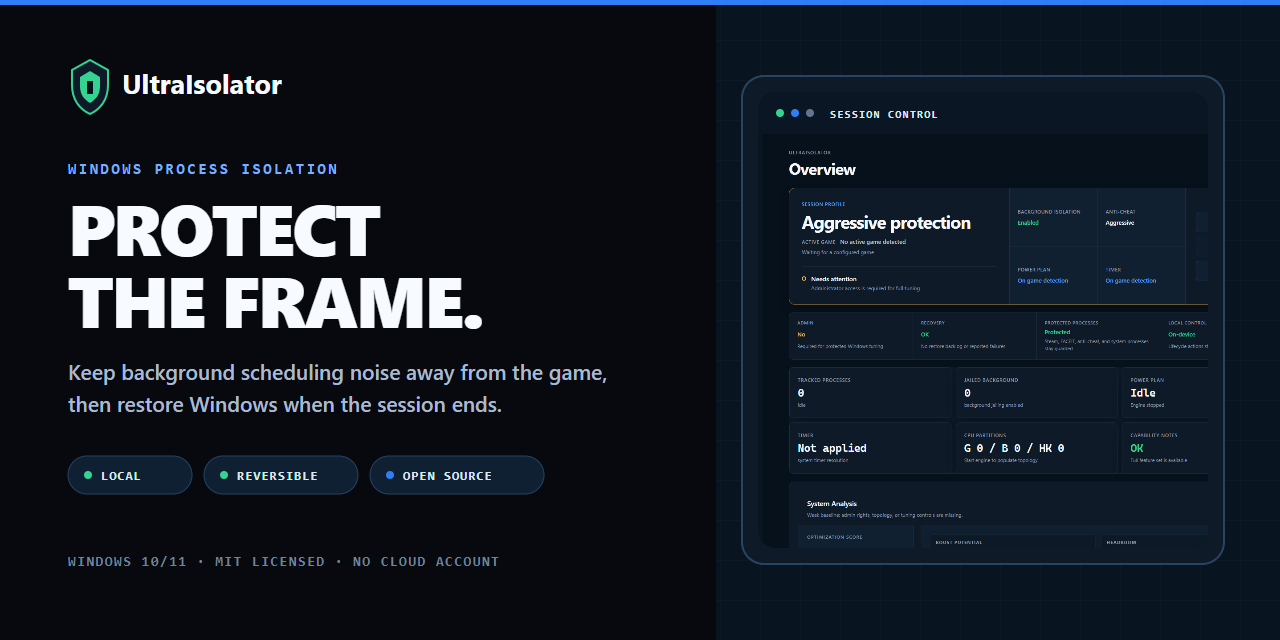
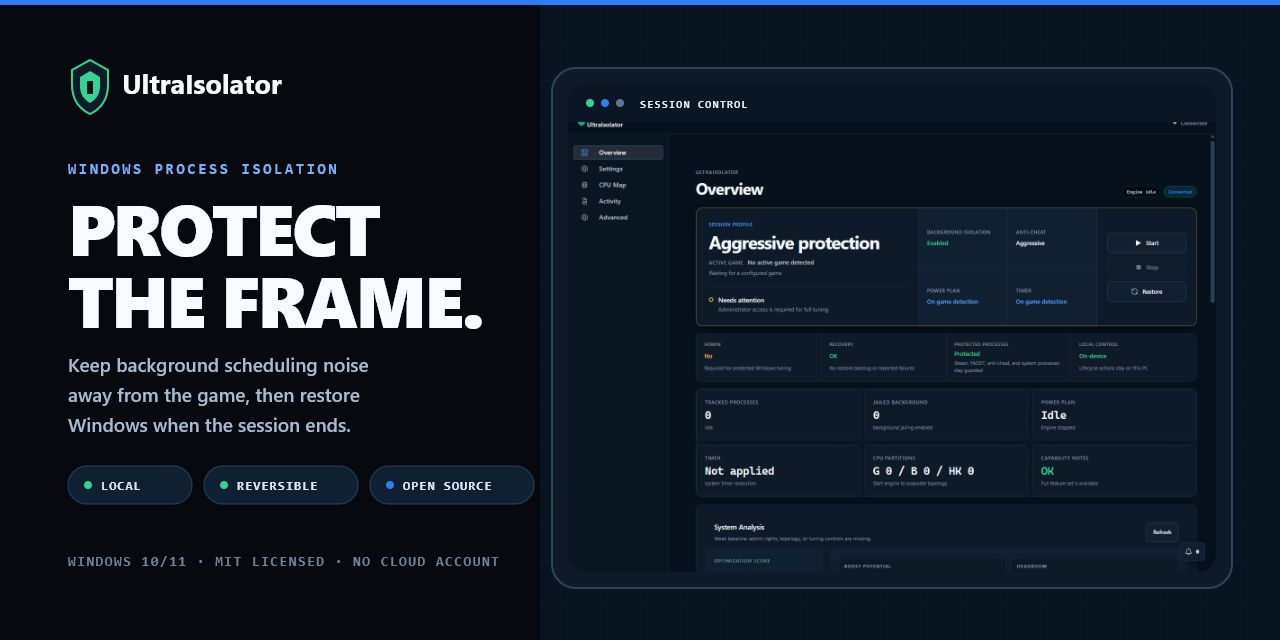
Polish GitHub presentation and clean workspace artifacts

diff --git a/docs/index.html b/docs/index.html
@@ -263,7 +263,7 @@
             </p>
             <a
               class="text-link"
-              href="https://github.com/chezzof/ultraisolator/blob/main/benchmark-results-hud.html"
+              href="https://github.com/chezzof/ultraisolator/blob/main/docs/benchmarks/cs2-vprof-report.html"
             >
               Read the benchmark report
             </a>

diff --git a/README.md b/README.md
@@ -1,5 +1,5 @@
 <p align="center">
-  <a href="#install-on-windows">
+  <a href="https://github.com/chezzof/ultraisolator/releases/latest">
     <img src="docs/social-preview.png" alt="UltraIsolator — protect the frame with local, reversible Windows process isolation" width="100%">
   </a>
 </p>
@@ -7,8 +7,8 @@
 <h1 align="center">UltraIsolator</h1>
 
 <p align="center">
-  <strong>Protect the frame.</strong><br>
-  A local, reversible Windows process tuner that keeps background scheduling noise away from the game, then returns Windows to its previous state when the session ends.
+  <strong>Local Windows process isolation for smoother competitive-game sessions.</strong><br>
+  Detect the game, protect critical processes, reduce eligible background interference, and restore Windows when the session ends.
 </p>
 
 <p align="center">
@@ -19,58 +19,62 @@
 </p>
 
 <p align="center">
-  <a href="#install-on-windows"><strong>Install on Windows</strong></a>
+  <a href="https://github.com/chezzof/ultraisolator/releases/latest"><strong>Download for Windows</strong></a>
   &nbsp;&nbsp;·&nbsp;&nbsp;
   <a href="#how-it-works">How it works</a>
   &nbsp;&nbsp;·&nbsp;&nbsp;
   <a href="#measured-on-cs2">Measured results</a>
   &nbsp;&nbsp;·&nbsp;&nbsp;
-  <a href="#safety-first">Safety</a>
+  <a href="#safety-by-design">Safety</a>
 </p>
 
-UltraIsolator watches for configured games, prepares a clean CPU layout, and applies only the tuning selected for the current session. Game detection is independent from process-tuning success, so anti-cheat access restrictions do not make an active game disappear from the interface.
+<p align="center"><sub>Windows 10/11 · Administrator access required · Local by design · MIT licensed</sub></p>
 
-Windows 10/11 · Administrator access required · Local by design · MIT licensed
+## How it works
 
-## How It Works
-
-| 01 — Detect | 02 — Review |
+| 01 — Detect | 02 — Prepare |
 |---|---|
-| Watches configured games and scans Steam and Epic libraries. | Checks administrator access, CPU topology, configured games, and safe-restore readiness. |
+| Watches configured game processes and scans Steam and Epic libraries. | Checks administrator access, CPU topology, configured games, and restore readiness. |
 
-| 03 — Isolate | 04 — Restore |
+| 03 — Protect | 04 — Restore |
 |---|---|
-| Applies the selected CPU, process, timer, and power tuning for the active session. | Returns tracked Windows state when the game closes or you restore manually. |
+| Applies the selected CPU, priority, timer, and power tuning for the active session. | Returns tracked Windows state when the game closes or you restore manually. |
 
-Monitoring starts automatically whenever the desktop app launches. A manual pause lasts only for that app session; the next launch resumes monitoring.
+Game detection is independent from process-tuning success. A game remains visible when anti-cheat or Windows access rules block direct tuning.
 
 ## Why UltraIsolator
 
-- **Game-aware:** detection follows the game process before tuning, including access-denied and conservative anti-cheat paths.
-- **Local:** the desktop UI talks only to an authenticated loopback API. No cloud account is required.
-- **Protected:** Windows, Steam, FACEIT, anti-cheat, terminals, and configured protected processes stay outside background isolation.
-- **Reversible:** process state, timer resolution, IFEO hints, and the original power plan are restored after the session.
+- **Game-aware.** Detection follows the active game before tuning, including access-denied and conservative anti-cheat paths.
+- **Protected by default.** Windows, Steam, FACEIT, anti-cheat, terminals, and configured protected processes stay outside background isolation.
+- **Local.** The desktop UI communicates only with an authenticated loopback API. No cloud account is required.
+- **Reversible.** Process state, timer resolution, IFEO hints, and the original power plan are restored after the session.
 
-Background isolation is optional and defaults to off. When enabled, it is batched to avoid turning maintenance work into a new source of frame-time noise.
+Background isolation is optional and defaults to off. When enabled, it runs in batches so maintenance work does not become a new source of frame-time noise.
 
-## Safety First
+## Real product. Local control.
 
-UltraIsolator changes sensitive Windows scheduling controls. Read these boundaries before installation:
+<p align="center">
+  <img src="docs/screenshots/dashboard.png" alt="UltraIsolator Overview showing session protection, game state, safe restore, and local system readiness" width="100%">
+</p>
 
-- Windows 10/11 only. Mutating desktop, CLI, benchmark, and recovery paths require Administrator elevation and fail closed without it; `--dry-run` remains available to standard users.
-- The production desktop package is NSIS-only and installs per-machine under `Program Files`. The installer currently appears as **Esports Isolator PRO** to preserve the existing Windows package identity.
-- End users do not install Python separately. The package includes a private Python 3.12 runtime and `psutil`.
-- Packaged startup verifies a backend resource integrity manifest stored in the trusted app bundle before launching code from `resources/backend`.
-- Startup fails closed if the Python runtime, backend, or manifest is standard-user writable, missing, or does not match the signed build manifest.
-- Production ignores arbitrary inherited Python paths. `EII_ALLOW_UNTRUSTED_PACKAGED_PYTHON` is restricted to non-production developer diagnostics.
-- Use `anti_cheat_mode: "conservative"` for stricter anti-cheat stacks. UltraIsolator does not inject into game or anti-cheat processes.
-- The application does not download or execute remote code at runtime.
+The Overview keeps the current game, protection state, next required action, and safe-restore status in one place. Settings and CPU Map use the same responsive layout in English and Russian.
 
-Local logs and recovery files can contain process names and local paths. Review them before sharing.
+<details>
+<summary><strong>See Settings and CPU Map</strong></summary>
+
+<br>
+
+<img src="docs/screenshots/settings.png" alt="UltraIsolator Settings with aligned responsive toggles" width="100%">
+
+<br>
+
+<img src="docs/screenshots/topology.png" alt="UltraIsolator CPU Map showing game, background, and housekeeping partitions" width="100%">
+
+</details>
 
 ## Measured on CS2
 
-The repository includes a Counter-Strike 2 VProf comparison of the same workload with and without the isolator. The strongest result was lower high-percentile frame-time spikes, not a promise of universal FPS gain.
+The included Counter-Strike 2 VProf comparison uses the same workload with and without UltraIsolator. The strongest result was lower high-percentile frame-time spikes—not a promise of universal FPS gain.
 
 | VProf metric | Without | With UltraIsolator | Change |
 |---|---:|---:|---:|
@@ -81,56 +85,37 @@ The repository includes a Counter-Strike 2 VProf comparison of the same workload
 
 Results are workload- and hardware-specific. Reproduce the test on the target machine before making tuning decisions.
 
-[Open the benchmark report](benchmark-results-hud.html) · [Inspect the structured summary](docs/benchmarks/cs2-vprof-summary.json)
+[Open the benchmark report](docs/benchmarks/cs2-vprof-report.html) · [Inspect the structured summary](docs/benchmarks/cs2-vprof-summary.json)
 
 ## Install on Windows
 
-1. Open [Releases](https://github.com/chezzof/ultraisolator/releases/latest).
-2. Download the NSIS installer and the matching `SHA256SUMS.txt`.
+1. Open the [latest release](https://github.com/chezzof/ultraisolator/releases/latest).
+2. Download the NSIS installer and matching `SHA256SUMS.txt`.
 3. Verify the checksum, run the installer, and approve the Windows UAC prompt.
-4. Launch UltraIsolator. Monitoring starts automatically and the Overview screen shows the active game when it is detected.
+4. Launch UltraIsolator. Monitoring starts automatically and Overview shows the game when it is detected.
 
-> **Release asset check:** current `main` produces a per-machine NSIS installer with a bundled Python runtime. If the release page still lists a portable build, treat it as a legacy artifact and build current `main` instead.
+> Current `main` produces a per-machine NSIS installer with a private Python runtime. A portable asset on an older release is legacy and should not be used for the current build.
 
 The installer is currently unsigned. Windows may show an unknown-publisher warning; verify the published SHA-256 checksum before continuing.
 
-## Build from Source
+## Safety by design
 
-Requirements: Windows 10/11, Python 3.12+, Node.js, and an Administrator terminal for mutating runs.
+- Mutating desktop, CLI, benchmark, and recovery paths require Administrator elevation and fail closed without it. `--dry-run` remains available to standard users.
+- UltraIsolator does not inject into game or anti-cheat processes.
+- The application does not download or execute remote code at runtime.
+- Packaged startup verifies the bundled backend, private Python runtime, resource permissions, and integrity manifest before launching.
+- Local logs and recovery files can contain process names and local paths. Review them before sharing.
 
-```powershell
-git clone https://github.com/chezzof/ultraisolator.git
-cd ultraisolator
-python -m pip install -r requirements.txt
-copy config.json.example config.json
-python best_isolator.py --dry-run
-python best_isolator.py
-```
+<details>
+<summary><strong>Packaging and anti-cheat details</strong></summary>
 
-The dry run validates configuration without requiring elevation or changing the system.
+- Production is NSIS-only and installs per-machine under `Program Files`. The installer currently appears as **Esports Isolator PRO** to preserve the existing Windows package identity.
+- End users do not install Python separately. The package includes Python 3.12 and `psutil`.
+- Startup fails closed when the runtime, backend, or manifest is missing, modified, or standard-user writable.
+- Production ignores arbitrary inherited Python paths. Developer overrides are restricted to non-production diagnostics.
+- Use `anti_cheat_mode: "conservative"` for stricter anti-cheat stacks.
 
-## Desktop UI
-
-The Electron + React desktop app runs the same Python engine, keeps monitoring alive in the tray, and uses an allowlisted IPC proxy instead of exposing the API token to the renderer.
-
-```powershell
-python -m pip install -r requirements.txt
-npm --prefix ui install
-npm --prefix ui run dev
-```
-
-Build and smoke-check the desktop surface:
-
-```powershell
-npm --prefix ui run build:renderer
-npm --prefix ui run build:assets
-npm --prefix ui run build:backend-manifest
-npm --prefix ui run smoke
-npm --prefix ui run build
-npm --prefix ui run verify:packaged-runtime
-```
-
-Production packaging and the bundled-runtime provenance policy are documented in [BUILDING.md](BUILDING.md).
+</details>
 
 ## Configuration
 
@@ -150,18 +135,59 @@ Copy [`config.json.example`](config.json.example) to `config.json`. The most imp
 
 See [`config.json.example`](config.json.example) for the complete reference.
 
-## CLI
+## Build and contribute
+
+<details>
+<summary><strong>Build from source</strong></summary>
+
+Requirements: Windows 10/11, Python 3.12+, Node.js, and an Administrator terminal for mutating runs.
+
+```powershell
+git clone https://github.com/chezzof/ultraisolator.git
+cd ultraisolator
+python -m pip install -r requirements.txt
+copy config.json.example config.json
+python best_isolator.py --dry-run
+python best_isolator.py
+```
+
+The dry run validates configuration without requiring elevation or changing the system. See [BUILDING.md](BUILDING.md) for production packaging.
+
+</details>
+
+## Desktop UI
+
+The Electron + React desktop app runs the same Python engine, keeps monitoring available from the tray, and exposes the backend only through an allowlisted IPC bridge.
+
+<details>
+<summary><strong>Desktop UI development</strong></summary>
+
+```powershell
+python -m pip install -r requirements.txt
+npm --prefix ui install
+npm --prefix ui run dev
+```
+
+```powershell
+npm --prefix ui run build:renderer
+npm --prefix ui run test:ui-quality
+npm --prefix ui run smoke
+npm --prefix ui run build
+npm --prefix ui run verify:packaged-runtime
+```
+
+</details>
+
+<details>
+<summary><strong>CLI and architecture</strong></summary>
 
 ```powershell
 python best_isolator.py
 python best_isolator.py --config myconfig.json
 python best_isolator.py --dry-run
 python best_isolator.py --recover
-python best_isolator.py --log-file session.log
 python best_isolator.py --benchmark --benchmark-duration-sec 30
 ```
-
-## Architecture
 
 ```text
 Electron + React renderer
@@ -177,13 +203,15 @@ Bundled Python engine
   └─ protected-process and anti-cheat boundaries
 ```
 
-## Verification
+</details>
+
+<details>
+<summary><strong>Verification</strong></summary>
 
 ```powershell
 python -m unittest discover -s tests -p "test_*.py" -v
-npm --prefix ui test
-npm --prefix ui run build:renderer
-npm --prefix ui run smoke
+npm --prefix ui run test:unit
+npm --prefix ui run test:ui-quality
 ```
 
 Full Windows release gate:
@@ -192,15 +220,9 @@ Full Windows release gate:
 powershell -File scripts/release-check.ps1
 ```
 
-The gate runs the Python and Node suites, configuration dry-run, renderer build, smoke test, package build, bundled-runtime verification, manifest checks, and checksum generation.
+</details>
 
-## Contributing
-
-Contributions should be reproducible, anti-cheat-aware, and reversible. Start with [CONTRIBUTING.md](CONTRIBUTING.md), include Windows/Python/game context in bug reports, and run the verification commands before opening a pull request.
-
-## Security
-
-Report vulnerabilities privately through GitHub Security Advisories. See [SECURITY.md](SECURITY.md) for scope and response expectations.
+Contributions should be reproducible, anti-cheat-aware, and reversible. Read [CONTRIBUTING.md](CONTRIBUTING.md) before opening a pull request. Report vulnerabilities privately through GitHub Security Advisories as described in [SECURITY.md](SECURITY.md).
 
 ## License
 

diff --git a/docs/codex-for-oss-submission.md b/docs/codex-for-oss-submission.md
@@ -18,7 +18,7 @@ I would use API credits to add safe local analysis workflows: explain logs, summ
 
 - Green GitHub Actions for Python and desktop UI checks.
 - `scripts/release-check.ps1` covering tests, dry-run, npm audit, renderer build, smoke test, visual/accessibility quality checks, package build, checksums, and public-surface checks.
-- CS2 VProf benchmark in `benchmark-results-hud.html` with structured summary in `docs/benchmarks/cs2-vprof-summary.json`.
+- CS2 VProf benchmark in `docs/benchmarks/cs2-vprof-report.html` with structured summary in `docs/benchmarks/cs2-vprof-summary.json`.
 - Refreshed Dashboard, Settings, and Topology screenshots under `docs/screenshots`.
 - Visual regression and accessibility gate for the desktop renderer.
 - Release notes template and checksum manifest workflow for the first public release.

diff --git a/docs/github-presentation-checklist.md b/docs/github-presentation-checklist.md
@@ -80,7 +80,7 @@ upload it once in Settings.
 - Release badge: `https://img.shields.io/github/v/release/chezzof/ultraisolator?sort=semver`
 - Releases link: `https://github.com/chezzof/ultraisolator/releases`
 - License link: `LICENSE`
-- Benchmark report: `benchmark-results-hud.html`
+- Benchmark report: `docs/benchmarks/cs2-vprof-report.html`
 - Security audit: `docs/security-hardening-audit.md`
 - Codex for OSS: `docs/codex-for-oss-submission.md`
 - Screenshots: